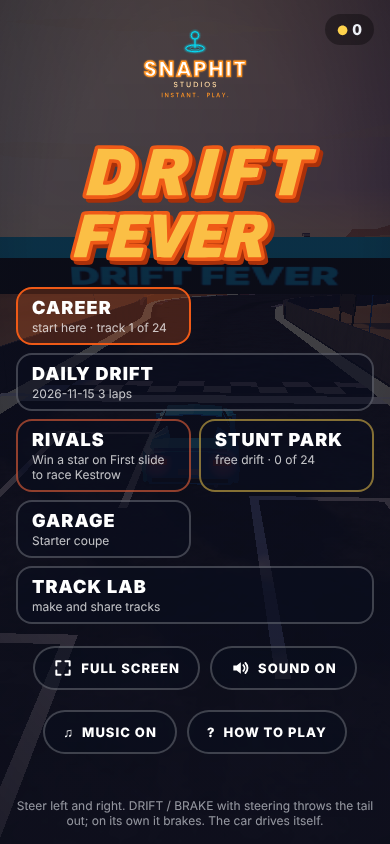
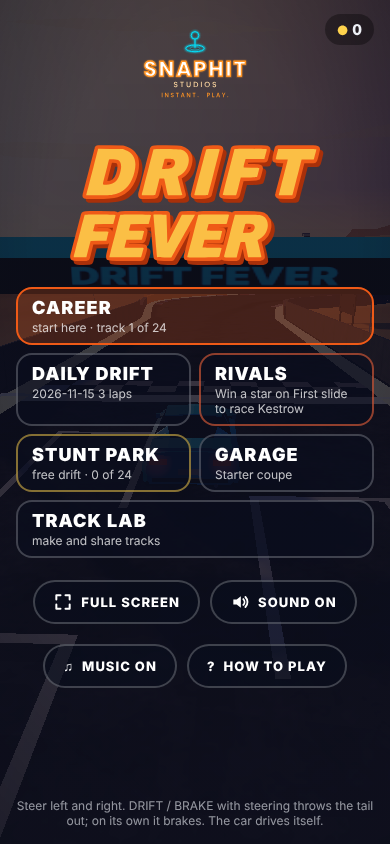
crazygames: a new player's title menu is balanced, every row edge to edge

diff --git a/crazygames/game/test/start/check.js b/crazygames/game/test/start/check.js
@@ -30,6 +30,11 @@ for (const [name, vp] of [['phone', { width: 390, height: 844 }], ['phone-wide',
   ok(name + ': an empty save boots on the title, no run started', t.state !== 'countdown' && t.state !== 'drive' && !t.onboard && menu.length >= 6, 'state ' + t.state + ', ' + menu.map(b => b.action).join(' '));
   ok(name + ': the main button is start here, first in the list, and the only main one', menu[0].action === 'first' && menu[0].primary && menu.filter(b => b.primary).length === 1 && !menu.some(b => b.action === 'career'), menu[0].text);
   ok(name + ': every title button is inside the frame and at least 36 px high', t.buttons.every(b => b.inside && b.h >= 36), t.buttons.filter(b => !b.inside || b.h < 36).map(b => b.action + ' ' + b.h + (b.inside ? '' : ' outside')).join(', ') || 'all ' + t.buttons.length);
+  /* the menu is balanced: every row of it is filled edge to edge (the author's eye, 15 November) */
+  const rows = await page.evaluate(() => { const m = document.querySelector('.title .menu').getBoundingClientRect(), by = {};
+    for (const b of document.querySelectorAll('.title .menu button')) { const r = b.getBoundingClientRect(), k = Math.round(r.top); (by[k] = by[k] || []).push([r.left - m.left, m.right - r.right]); }
+    return Object.values(by).map(a => ({ n: a.length, left: Math.round(Math.min(...a.map(x => x[0]))), right: Math.round(Math.min(...a.map(x => x[1]))) })); });
+  ok(name + ': every row of the menu runs from edge to edge', rows.every(r => r.left <= 1 && r.right <= 1), rows.map(r => r.n).join(' '));
   await page.screenshot({ path: path.join(dir, 'title-' + name + '.png') });
 
   /* one click to gameplay, with the prompts */

diff --git a/crazygames/game/src/ui/screens.js b/crazygames/game/src/ui/screens.js
@@ -60,7 +60,7 @@ export function createScreens(root, onAction) {
       <h1><img class="wordmark" src="assets/brand/drift-fever-wordmark.svg" alt="Drift Fever"></h1>
       ${sub ? `<p class="sub">${sub}</p>` : ''}
       ${info.backPay ? `<p class="sub pay">+${fmt(info.backPay)} coins for the stars you have already won</p>` : ''}
-      <div class="menu">
+      <div class="menu${info.fresh ? ' fresh' : ''}">
         ${info.fresh ? `<button type="button" class="big primary" data-action="first"><b>CAREER</b><small>start here &middot; track 1 of ${CAREER.length}</small></button>` : ''}
         <button type="button" class="big${info.fresh ? '' : ' primary'}" data-action="daily"><b>DAILY DRIFT</b><small>${esc(info.dailyName)} ${info.dailyKind}${daily ? ' &middot; best ' + fmt(daily.best) + ' ' + stars(daily.stars, true) : ''}</small></button>
         ${info.fresh ? '' : `<button type="button" class="big" data-action="career"><b>CAREER</b><small>${total}/${CAREER.length * 3} stars &middot; ${info.missions}/${info.missionsOf} missions</small></button>`}

diff --git a/crazygames/game/index.html b/crazygames/game/index.html
@@ -394,6 +394,9 @@
   @media (orientation: portrait) {
     .title .menu { display: grid; grid-template-columns: 1fr 1fr; }
     .title .menu button[data-action="daily"], .title .menu button[data-action="lab"] { grid-column: 1 / -1; }
+    /* a new player's menu: start here across the top, then two pairs, then the Lab across */
+    .title .menu button[data-action="first"] { grid-column: 1 / -1; }
+    .title .menu.fresh button[data-action="daily"] { grid-column: auto; }
     .title .menu button.big small { white-space: normal; }
   }
   .title .rivalsbtn { position: relative; border-color: rgba(255,106,60,0.55); }

diff --git a/crazygames/CLAUDE.md b/crazygames/CLAUDE.md
@@ -1055,3 +1055,6 @@ every push to `main` or a `crazygames-*` branch that touches this folder.
   from a truly empty profile. `ladder2/newplayer.js` replays presses
   rehearsed for the old landing and is out of date; `ready/pad.js` and
   `retention/heading.js` were moved to the new start.
+  After the author's eye the same day: on a phone the new player's
+  menu is start here across the top, two pairs, then the Lab across
+  (`.menu.fresh`); every row runs edge to edge, measured.
